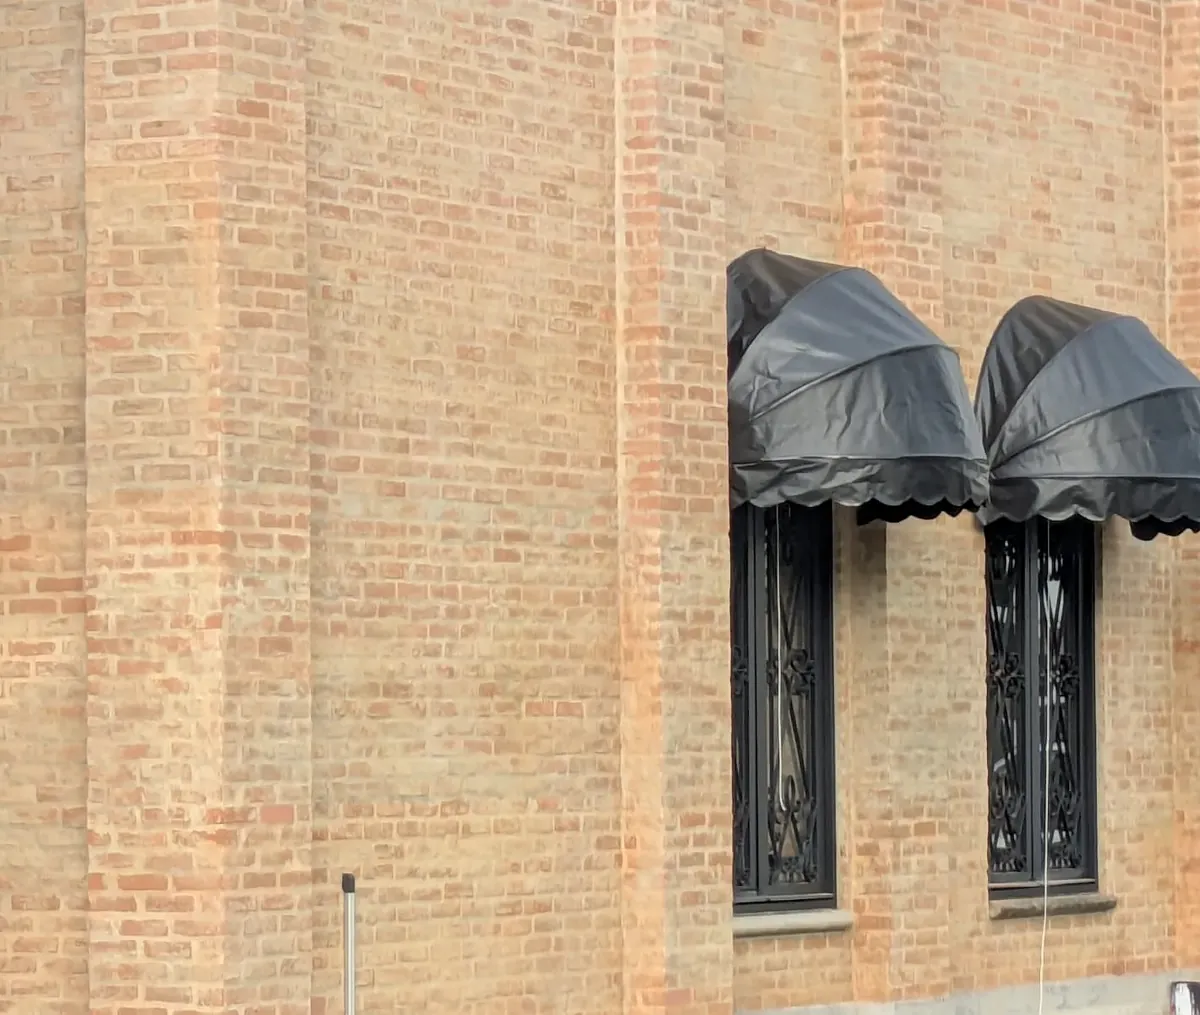
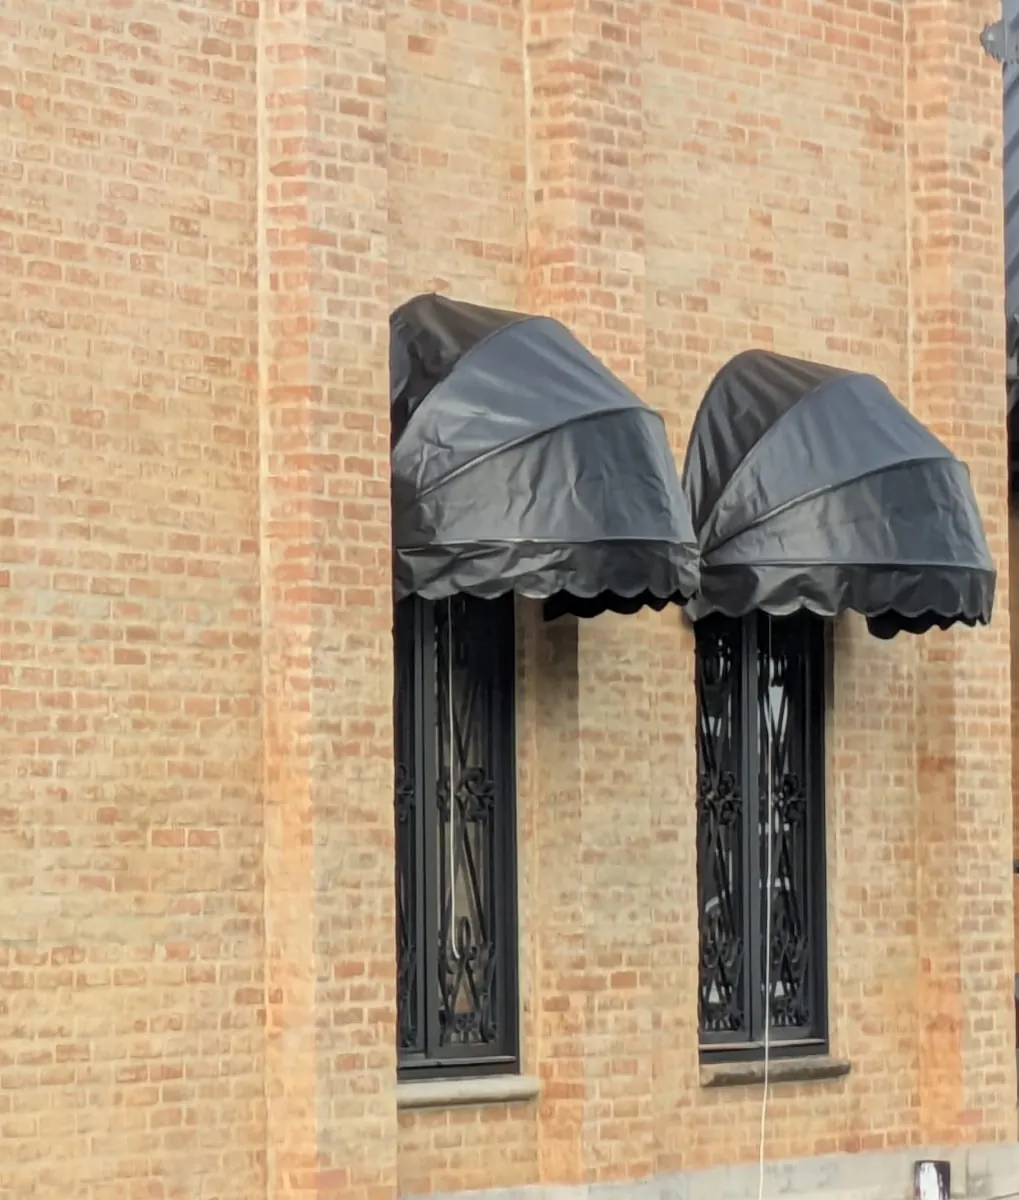
SUP-5b: galeria mostra fotos inteiras e remove 2 fotos de garagem
- Modal de produto: imagem principal usa object-contain também no desktop
  (antes object-cover cortava fotos como Toldos Fixos 13/23 e Capotas 8/8).
- Remove garagem/03-brener-detalhe.webp (foto girada/torta).
- Remove garagem/Garagem em lona/LONA (3).webp (lona em mau estado).
- Capotas: refeito o recorte de 07-detalhe-tijolo.webp para mostrar as duas capotas inteiras.

diff --git a/components/Produtos.tsx b/components/Produtos.tsx
@@ -238,7 +238,7 @@ const Produtos: React.FC<ProdutosProps> = ({
                     (e.target as HTMLImageElement).style.display = "none";
                     setMiniaturasProntas(true);
                   }}
-                  className="w-full h-full object-contain md:object-cover"
+                  className="w-full h-full object-contain"
                 />
 
                 {/* Setas de Navegação - Visible on mobile, hover on desktop */}
